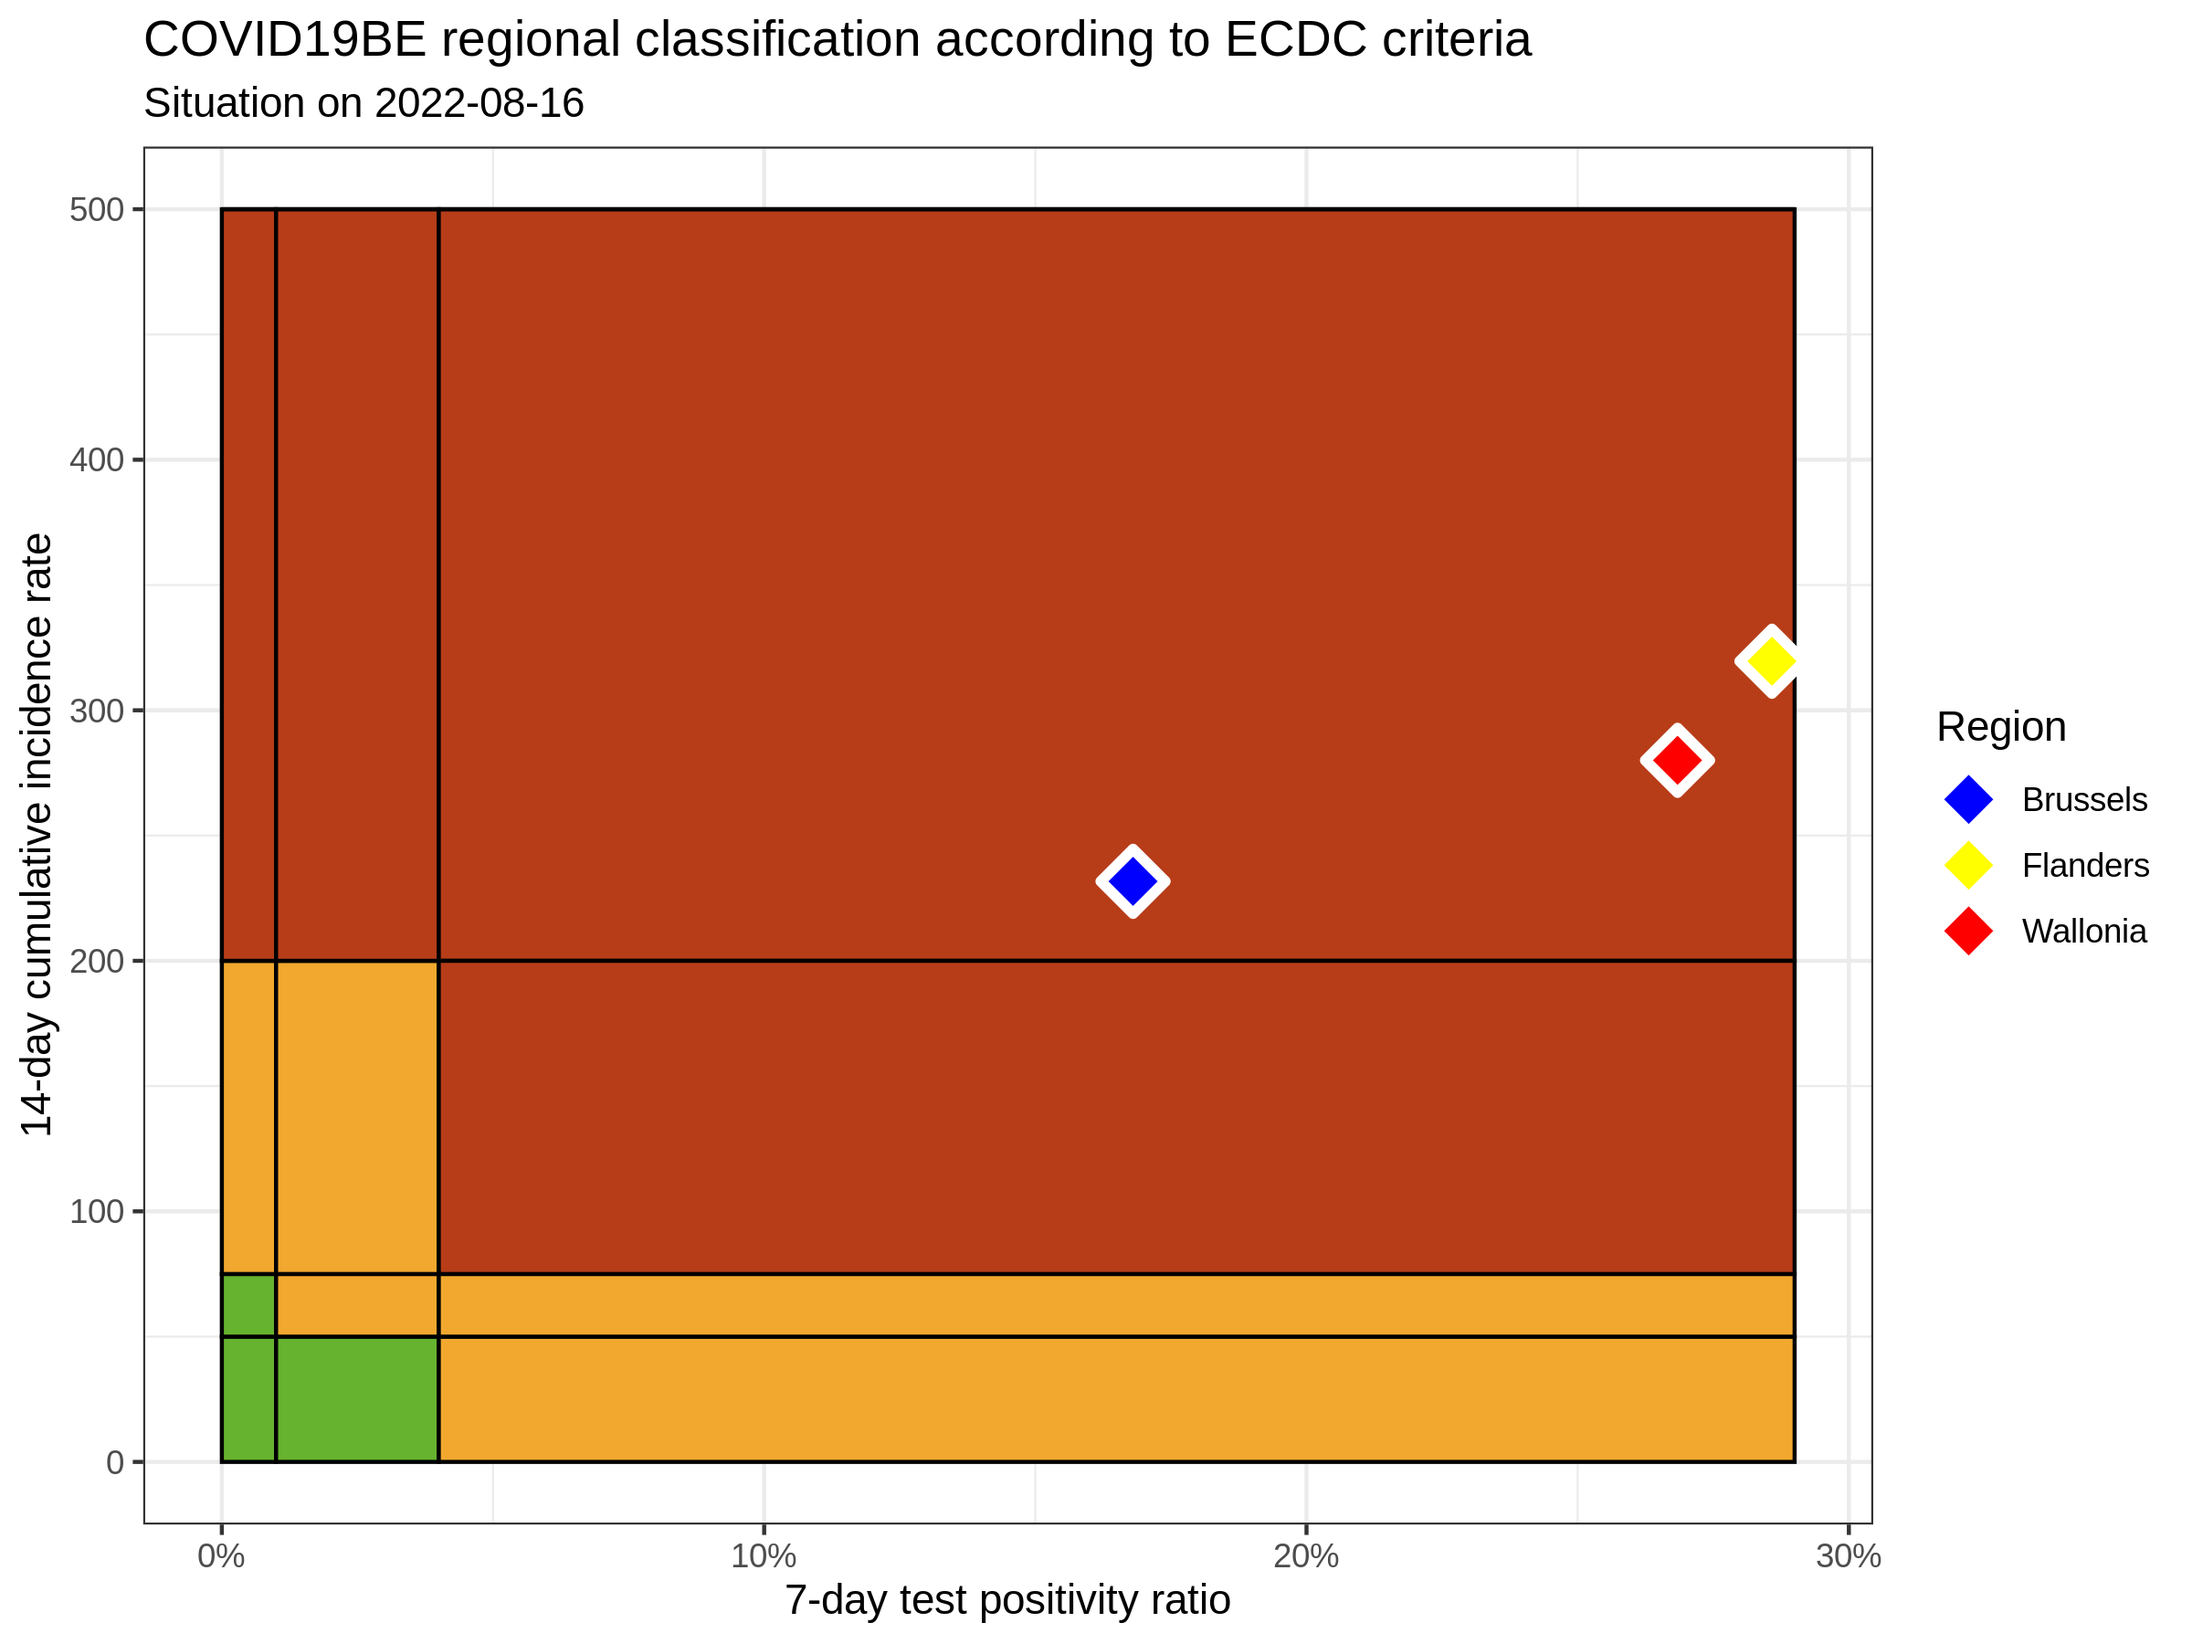
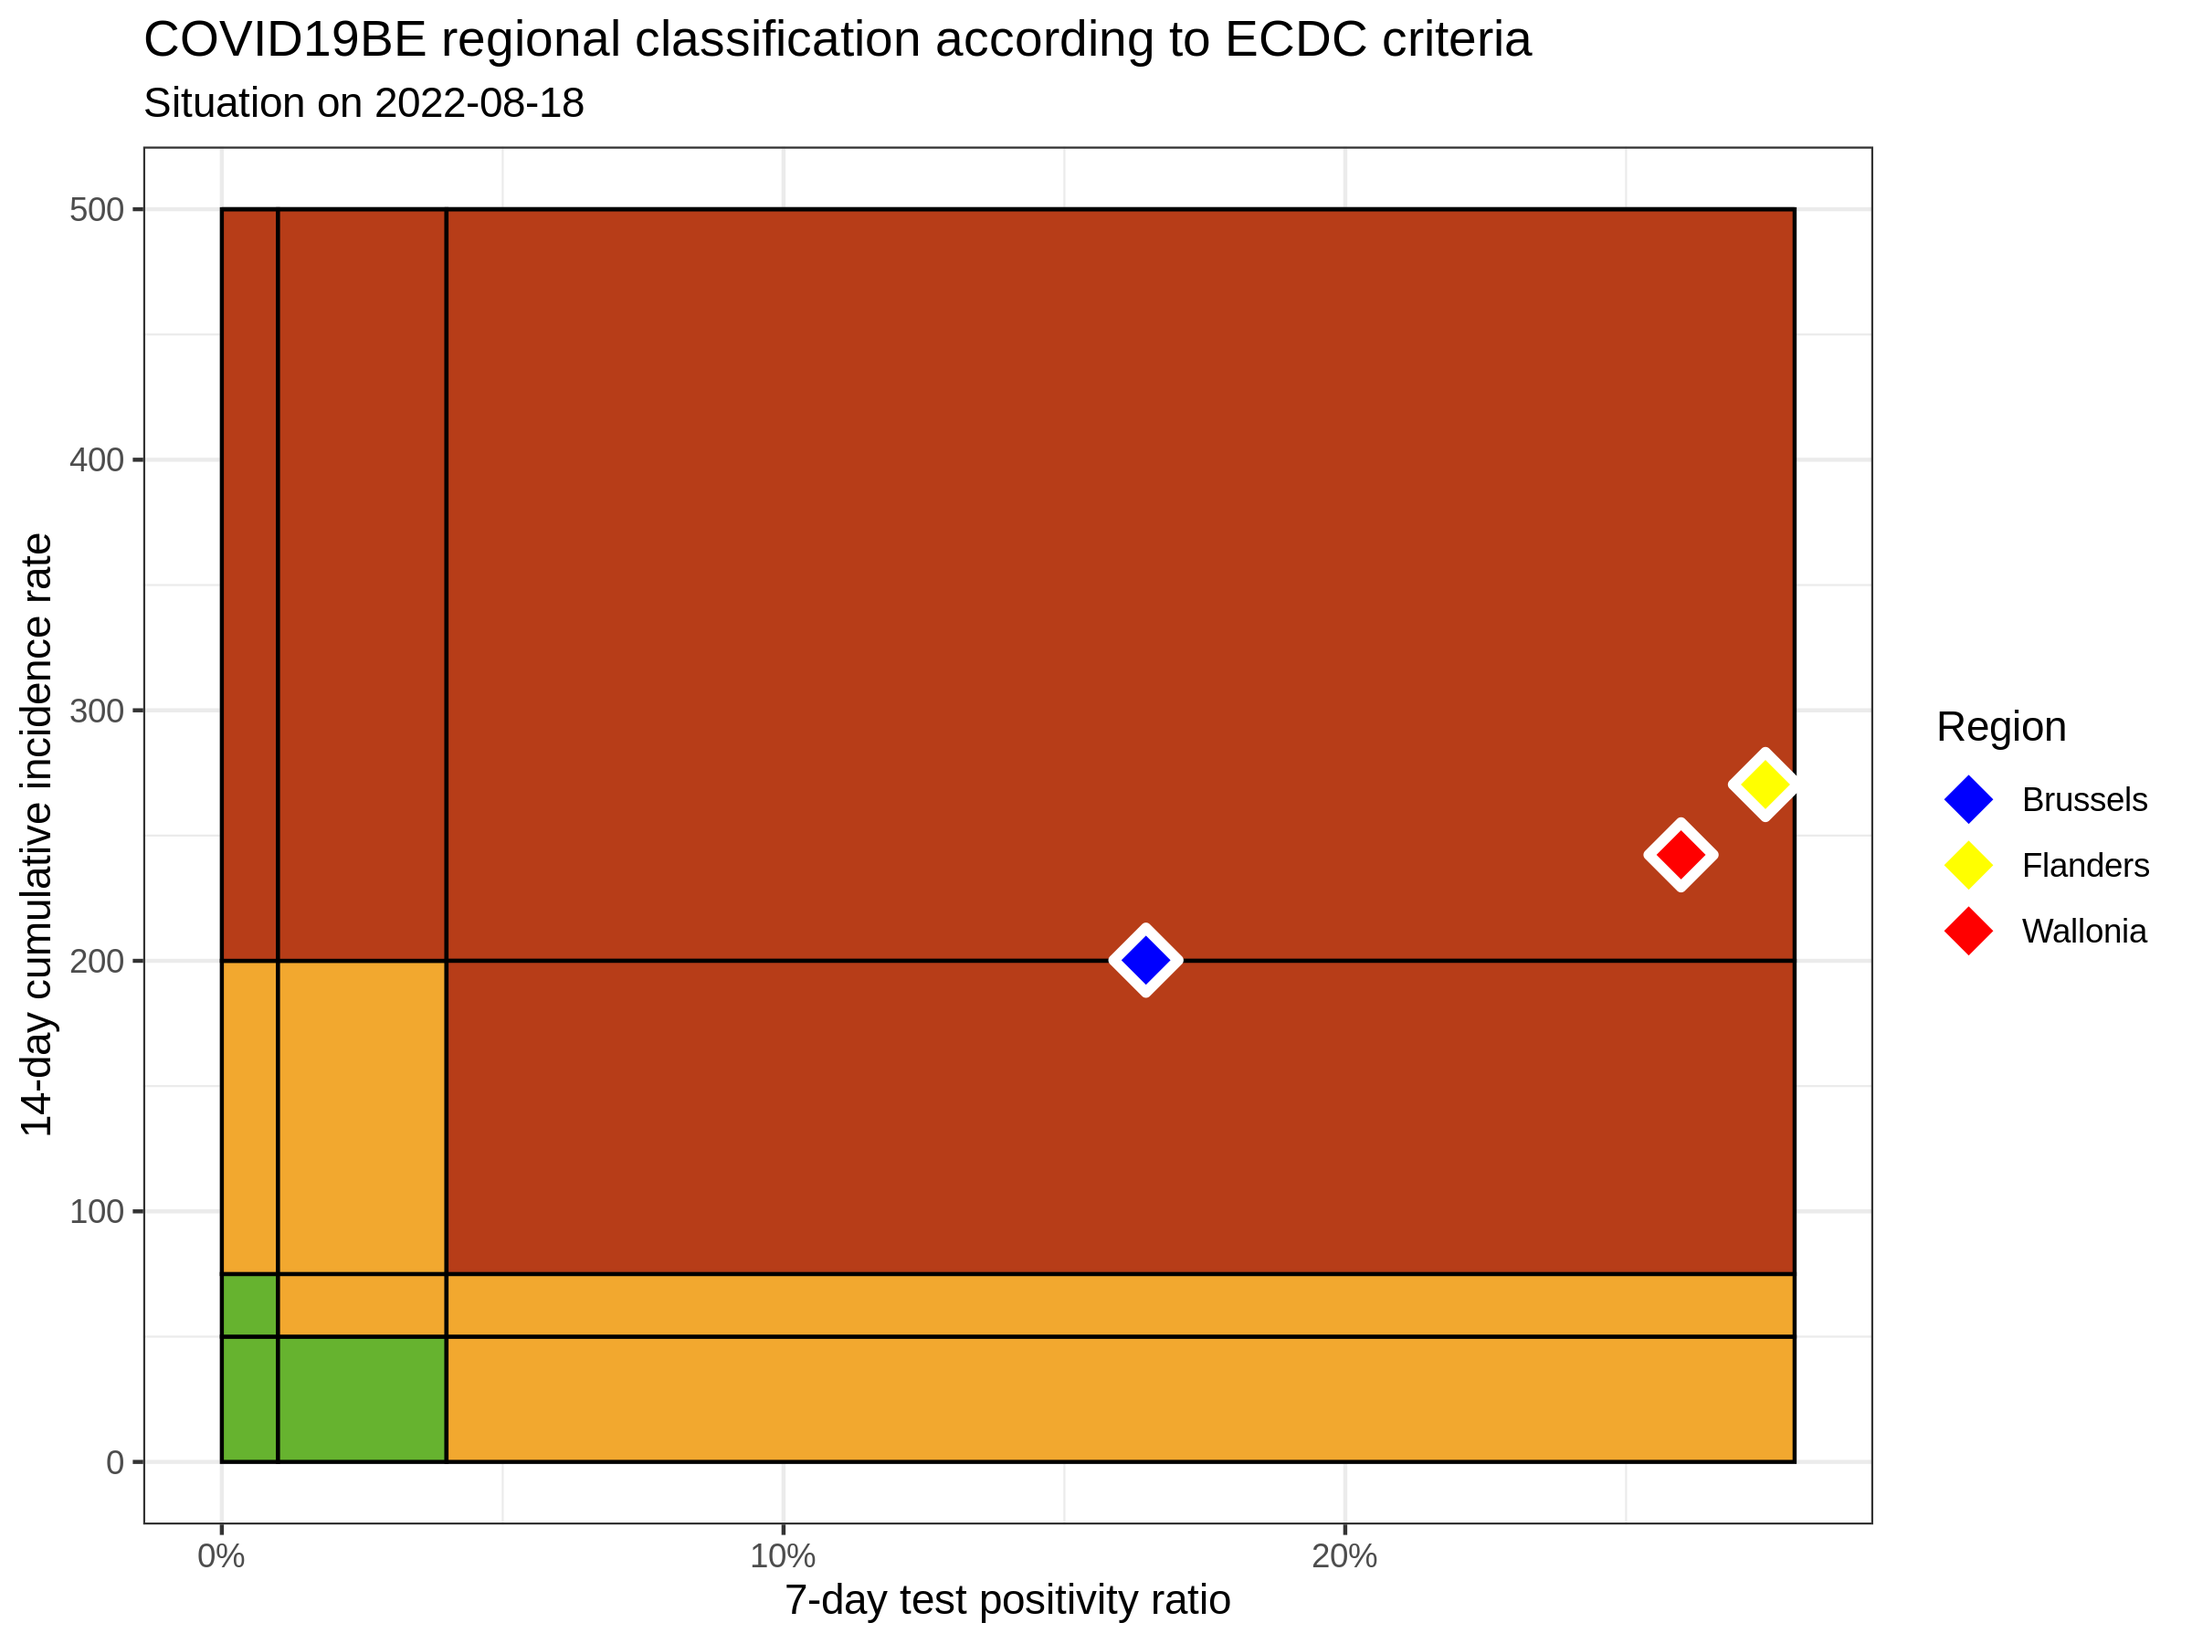
update situation

diff --git a/ecdc-trend/README.md b/ecdc-trend/README.md
@@ -11,9 +11,9 @@
 
 |          | INC14 | INC7 |  TST7 | TST\_POS7 | REGION   |     POP | INC14\_RT |       PR7 |          GR |
 | :------- | ----: | ---: | ----: | --------: | :------- | ------: | --------: | --------: | ----------: |
-| Brussels |  2827 | 1179 |  8273 |      1390 | Brussels | 1219970 |  231.7270 | 0.1680164 | \-0.2845874 |
-| Flanders | 21262 | 9210 | 35669 |     10195 | Flanders | 6653062 |  319.5822 | 0.2858224 | \-0.2358115 |
-| Wallonia | 10216 | 4320 | 17719 |      4756 | Wallonia | 3648206 |  280.0280 | 0.2684124 | \-0.2672999 |
+| Brussels |  2443 |  974 |  7373 |      1213 | Brussels | 1219970 |  200.2508 | 0.1645192 | \-0.3369639 |
+| Flanders | 17988 | 7302 | 31138 |      8557 | Flanders | 6653062 |  270.3717 | 0.2748089 | \-0.3166760 |
+| Wallonia |  8840 | 3522 | 15640 |      4063 | Wallonia | 3648206 |  242.3109 | 0.2597826 | \-0.3377209 |
 
 ### Read more
 
